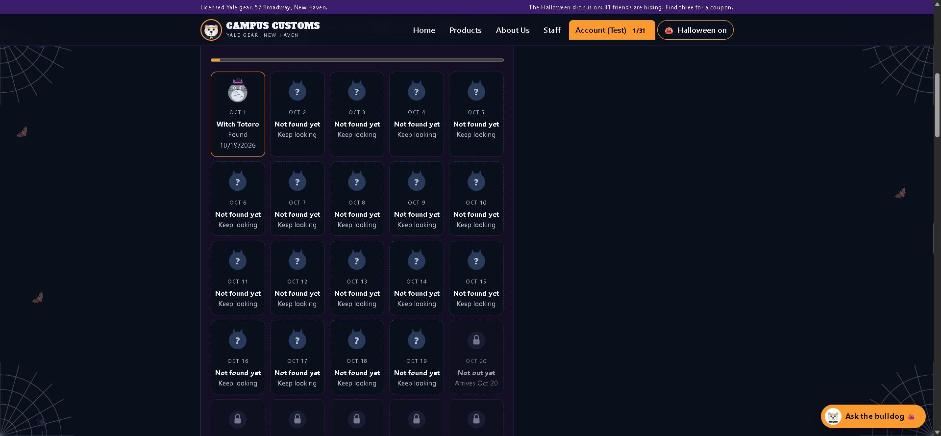
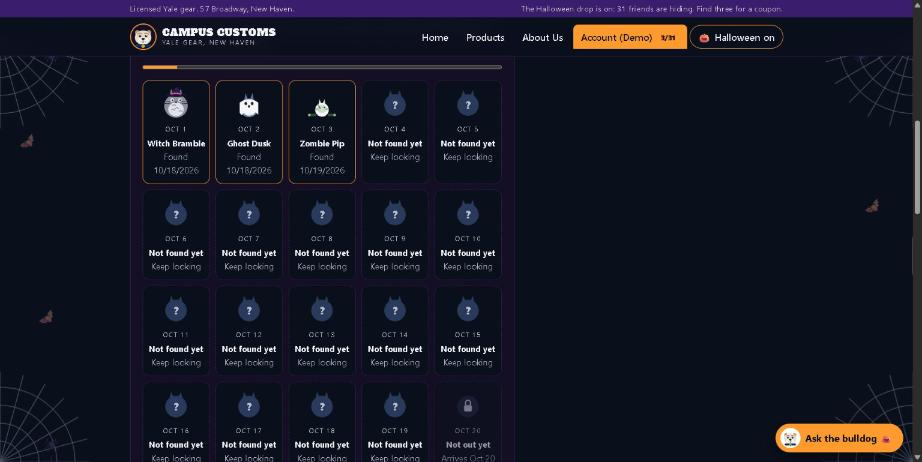
Hidden friends: original on-screen names and an attribution
The seven friends are now Bramble, Dusk, Pip, Whiskerline, Snaggle, Cinder
and Hush on screen, in the prompt and in the write-ups; internal keys stay.
Coupon codes take their word from the display name. The About page, README,
governance record and the agent's prompt credit the characters the drawings
nod to and state that nothing is official, licensed or for sale. Screenshots
that showed the old names were retaken.

diff --git a/frontend/src/eggs/characters.tsx b/frontend/src/eggs/characters.tsx
@@ -1,6 +1,6 @@
 // The hidden friends, drawn as inline SVG (no image files). Decorative; the button around them
-// carries the accessible name. The cast is seven characters (Totoro, Chu Totoro, Chibi Totoro,
-// Catbus, Labubu, a Soot Sprite and No-Face); each season dresses them in trick-or-treat costumes
+// carries the accessible name. The cast is seven original creatures (fan-made nods, credited in docs/governance.md): Bramble, Dusk, Pip,
+// Whiskerline, Snaggle, Cinder and Hush); each season dresses them in trick-or-treat costumes
 // drawn as overlays placed by each character's anchors. Keys come from the server as
 // `<character>-<costume>`; a pairing this build cannot draw shows as a silhouette.
 import type { ReactElement } from 'react'
@@ -143,7 +143,7 @@ function Frame({ costume, a, children }: { costume: Costume; a: Anchor; children
   )
 }
 
-function Totoro({ costume }: { costume: Costume }) {
+function Bramble({ costume }: { costume: Costume }) {
   return (
     <Frame costume={costume} a={A.totoro}>
       <polygon points="18,20 22,3 30,20" fill="#7d8591" />
@@ -161,7 +161,7 @@ function Totoro({ costume }: { costume: Costume }) {
   )
 }
 
-function ChuTotoro({ costume }: { costume: Costume }) {
+function Dusk({ costume }: { costume: Costume }) {
   return (
     <Frame costume={costume} a={A.chu}>
       <polygon points="22,27 25,12 31,27" fill="#5f6f94" />
@@ -179,7 +179,7 @@ function ChuTotoro({ costume }: { costume: Costume }) {
   )
 }
 
-function ChibiTotoro({ costume }: { costume: Costume }) {
+function Pip({ costume }: { costume: Costume }) {
   return (
     <Frame costume={costume} a={A.chibi}>
       <polygon points="25,34 27,25 31,34" fill="#e8e8ea" />
@@ -192,7 +192,7 @@ function ChibiTotoro({ costume }: { costume: Costume }) {
   )
 }
 
-function Catbus({ costume }: { costume: Costume }) {
+function Whiskerline({ costume }: { costume: Costume }) {
   return (
     <Frame costume={costume} a={A.catbus}>
       <polygon points="12,26 15,14 24,24" fill="#d97a2b" />
@@ -214,7 +214,7 @@ function Catbus({ costume }: { costume: Costume }) {
   )
 }
 
-function Labubu({ costume }: { costume: Costume }) {
+function Snaggle({ costume }: { costume: Costume }) {
   return (
     <Frame costume={costume} a={A.labubu}>
       <ellipse cx="21" cy="15" rx="5.5" ry="14" fill="#d7b48c" transform="rotate(-14 21 15)" />
@@ -237,7 +237,7 @@ const SPIKES = Array.from({ length: 16 }, (_, i) => {
   return `${32 + Math.cos(a) * 25},${34 + Math.sin(a) * 25} ${32 + Math.cos(a + 0.2) * 18},${34 + Math.sin(a + 0.2) * 18}`
 }).join(' ')
 
-function SootSprite({ costume }: { costume: Costume }) {
+function Cinder({ costume }: { costume: Costume }) {
   return (
     <Frame costume={costume} a={A.soot}>
       <polygon points={SPIKES} fill="#171717" />
@@ -250,7 +250,7 @@ function SootSprite({ costume }: { costume: Costume }) {
   )
 }
 
-function NoFace({ costume }: { costume: Costume }) {
+function Hush({ costume }: { costume: Costume }) {
   return (
     <Frame costume={costume} a={A.noface}>
       <path d="M20 62 Q16 36 24 18 Q32 8 40 18 Q48 36 44 62 Z" fill="#141418" />
@@ -291,13 +291,13 @@ function Locked() {
 }
 
 const BASE: Record<CharacterKey, (c: Costume) => ReactElement> = {
-  totoro: (c) => <Totoro costume={c} />,
-  chu: (c) => <ChuTotoro costume={c} />,
-  chibi: (c) => <ChibiTotoro costume={c} />,
-  catbus: (c) => <Catbus costume={c} />,
-  labubu: (c) => <Labubu costume={c} />,
-  soot: (c) => <SootSprite costume={c} />,
-  noface: (c) => <NoFace costume={c} />,
+  totoro: (c) => <Bramble costume={c} />,
+  chu: (c) => <Dusk costume={c} />,
+  chibi: (c) => <Pip costume={c} />,
+  catbus: (c) => <Whiskerline costume={c} />,
+  labubu: (c) => <Snaggle costume={c} />,
+  soot: (c) => <Cinder costume={c} />,
+  noface: (c) => <Hush costume={c} />,
 }
 
 export function CharacterArt({ character }: { character: string }) {

diff --git a/frontend/src/pages/About.tsx b/frontend/src/pages/About.tsx
@@ -56,6 +56,17 @@ export default function About() {
         </div>
       </section>
 
+      <section className="section" aria-labelledby="hidden-friends">
+        <h2 id="hidden-friends">About the hidden friends</h2>
+        <p className="muted">
+          Seven small creatures hide around the shop in seasonal costumes: Bramble, Dusk, Pip,
+          Whiskerline, Snaggle, Cinder and Hush. They are original drawings made for this class
+          project, fan-made nods to characters we love from Studio Ghibli's films and to Kasing
+          Lung's Labubu. Those characters and names belong to their owners. Nothing here is
+          official, licensed or for sale, and the reward codes are class-project codes only.
+        </p>
+      </section>
+
       <section className="section" aria-labelledby="visit">
         <h2 id="visit">Visit the store</h2>
         <p>

diff --git a/backend/hunt.py b/backend/hunt.py
@@ -2,7 +2,9 @@
 
 Rules in one place so the API, the agent's clue tool and the docs agree:
 
-- The cast is always four characters (Totoro, Labubu, a Soot Sprite and No-Face) in that season's
+- The cast is seven original creatures drawn for this shop (Bramble, Dusk, Pip, Whiskerline,
+  Snaggle, Cinder and Hush; fan-made nods to characters we love, credited in docs/governance.md)
+  in that season's
   trick-or-treat costumes. The Halloween set is 31 friends, one for each day of October: a new
   friend becomes findable each day (and stays findable until the set ends), so there is a reason
   to come back daily. Each friend has a home page where it always hides until found, and a riddle
@@ -69,14 +71,15 @@ class Season:
 # The cast and the costumes. The front end draws `<character>-<costume>`; anything it cannot
 # draw shows as a silhouette, so a new costume is added here and in characters.tsx together.
 CHARACTERS: tuple[tuple[str, str], ...] = (
-    ("totoro", "Totoro"),
-    ("chu", "Chu Totoro"),  # the middle, blue-grey sibling
-    ("chibi", "Chibi Totoro"),  # the tiny white one
-    ("catbus", "Catbus"),
-    ("labubu", "Labubu"),
-    ("soot", "Soot Sprite"),
-    ("noface", "No-Face"),
+    ("totoro", "Bramble"),
+    ("chu", "Dusk"),  # the middle, blue-grey sibling
+    ("chibi", "Pip"),  # the tiny white one
+    ("catbus", "Whiskerline"),
+    ("labubu", "Snaggle"),
+    ("soot", "Cinder"),
+    ("noface", "Hush"),
 )
+NAME_BY_KEY = dict(CHARACTERS)
 HALLOWEEN_COSTUMES: tuple[tuple[str, str, str], ...] = (
     ("witch", "Witch", "A pointed hat and a crooked broom."),
     ("ghost", "Ghost", "A sheet with two eye holes, going boo."),
@@ -126,10 +129,10 @@ SEASONS: tuple[Season, ...] = (
         ends=(11, 30),
         art_ready=False,
         friends=(
-            Friend("totoro-pilgrim", "Pilgrim Totoro", "/", "A buckled hat at the front door."),
-            Friend("labubu-turkey", "Turkey Labubu", "/products", "Tail feathers between the racks."),
-            Friend("soot-pie", "Pie Soot Sprite", "/about", "Something warm where the shop tells its story."),
-            Friend("noface-harvest", "Harvest No-Face", "/products/*", "A basket of leaves on one item's page."),
+            Friend("totoro-pilgrim", "Pilgrim Bramble", "/", "A buckled hat at the front door."),
+            Friend("labubu-turkey", "Turkey Snaggle", "/products", "Tail feathers between the racks."),
+            Friend("soot-pie", "Pie Cinder", "/about", "Something warm where the shop tells its story."),
+            Friend("noface-harvest", "Harvest Hush", "/products/*", "A basket of leaves on one item's page."),
         ),
     ),
     Season(
@@ -139,10 +142,10 @@ SEASONS: tuple[Season, ...] = (
         ends=(1, 6),
         art_ready=False,
         friends=(
-            Friend("totoro-santa", "Santa Totoro", "/", "A red hat at the front door."),
-            Friend("labubu-elf", "Elf Labubu", "/products", "Pointy ears between the racks."),
-            Friend("soot-snowman", "Snowman Soot Sprite", "/about", "A carrot nose where the shop tells its story."),
-            Friend("noface-reindeer", "Reindeer No-Face", "/products/*", "Antlers on one item's page."),
+            Friend("totoro-santa", "Santa Bramble", "/", "A red hat at the front door."),
+            Friend("labubu-elf", "Elf Snaggle", "/products", "Pointy ears between the racks."),
+            Friend("soot-snowman", "Snowman Cinder", "/about", "A carrot nose where the shop tells its story."),
+            Friend("noface-reindeer", "Reindeer Hush", "/products/*", "Antlers on one item's page."),
         ),
     ),
 )
@@ -273,7 +276,8 @@ def _tail(n: int = 4) -> str:
 
 
 def make_coupon_code(character: str) -> str:
-    word = character.split("-")[0].upper()[:8] or "FRIEND"
+    key = character.split("-")[0]
+    word = "".join(ch for ch in NAME_BY_KEY.get(key, "friend").upper() if ch.isalpha())[:8] or "FRIEND"
     return f"{word}{COUPON_PCT}-{_tail()}"
 
 

diff --git a/backend/tests/test_usability.py b/backend/tests/test_usability.py
@@ -158,7 +158,7 @@ def test_finds_earn_coupon_then_upgrade_and_never_a_second_code(client):
     assert third["unlocked"] == ["new_find", "coupon"]
     assert third["coupon"]["discount_pct"] == 10 and third["coupon"]["scope"] == "one_item"
     code = third["coupon"]["code"]
-    assert code.startswith("CHIBI10-")  # day 3 is Zombie Chibi Totoro
+    assert code.startswith("PIP10-")  # day 3 is Zombie Pip
 
     for n, k in enumerate(keys[3:-1], start=4):
         mid = client.post("/me/hunt/finds", json={"season": season["key"], "character": k}, headers=h).json()

diff --git a/output/harness.md b/output/harness.md
@@ -311,9 +311,9 @@ Google and GitHub go through **Supabase Auth's OAuth flow with the provider's de
 
 ### 4.6 Easter eggs and the one-per-shopper coupon
 
-Now and then (35% of page visits, or always with `?egg=totoro` / `?egg=labubu` for testing) a small drawn Totoro or Labubu peeks from a spot that holds no text: the ground of the night scene, the end of the footer row, the photo corner of one random product card, or a side gutter on wide screens. It is a real `<button>` with an accessible name, so keyboard and screen-reader users can find it too.
+Now and then (35% of page visits, or always with `?egg=totoro` / `?egg=labubu` for testing) a small drawn Bramble or Snaggle peeks from a spot that holds no text: the ground of the night scene, the end of the footer row, the photo corner of one random product card, or a side gutter on wide screens. It is a real `<button>` with an accessible name, so keyboard and screen-reader users can find it too.
 
-Activating it claims the shopper's coupon: **one per shopper, good for one item, one time.** The rule is enforced on the server, not in the browser: the `coupons` table has `UNIQUE (user_id)`, `POST /me/coupon` returns the existing coupon with `already_claimed: true` on any later claim, and no second code is ever issued. A guest who finds a friend is asked to sign in; the character is remembered in this tab only and the claim completes on the Account page after sign-in. The Account page shows the coupon, who it was found with, and whether it has been used (`redeemed_at`, set by a future checkout). Deleting the account deletes the coupon. Codes look like `TOTORO10-K7P2` and are clearly labelled as class-project codes, not redeemable at the real store.
+Activating it claims the shopper's coupon: **one per shopper, good for one item, one time.** The rule is enforced on the server, not in the browser: the `coupons` table has `UNIQUE (user_id)`, `POST /me/coupon` returns the existing coupon with `already_claimed: true` on any later claim, and no second code is ever issued. A guest who finds a friend is asked to sign in; the character is remembered in this tab only and the claim completes on the Account page after sign-in. The Account page shows the coupon, who it was found with, and whether it has been used (`redeemed_at`, set by a future checkout). Deleting the account deletes the coupon. Codes look like `BRAMBLE10-K7P2` and are clearly labelled as class-project codes, not redeemable at the real store.
 
 ### 4.7 Tests (`backend/tests/test_auth.py`, 29 passing)
 
@@ -348,7 +348,7 @@ Hash is not the plaintext and is bcrypt by default; two hashes of one password d
 
 ### 5.4 Easter egg in the chat
 
-One open in five, a hidden Totoro or Labubu sits in the chat header keeping the assistant company. The prompt also gives the assistant one playful line if the shopper mentions Totoro, Labubu or hidden friends, then steers back to merch. No coupon is involved; that stays one per shopper via the page eggs.
+One open in five, a hidden Bramble or Snaggle sits in the chat header keeping the assistant company. The prompt also gives the assistant one playful line if the shopper mentions Bramble, Snaggle or hidden friends, then steers back to merch. No coupon is involved; that stays one per shopper via the page eggs.
 
 ### 5.5 Tests (`backend/tests/test_chat.py`, 7 passing, 36 in total)
 
@@ -485,7 +485,7 @@ Measured before building: API 3 to 5 ms per request, product list 42 KB, images 
 
 ### 9.2 Hidden friends collection (front end 1)
 
-- **Definition in code, not data:** `backend/hunt.py` holds the seasons (Halloween live as a daily set of 31; Thanksgiving and Winter defined, `art_ready=False`), the cast (`CHARACTERS`: Totoro, Chu Totoro, Chibi Totoro, Catbus, Labubu, Soot Sprite, No-Face) and the costumes (`HALLOWEEN_COSTUMES`: witch, ghost, zombie, skeleton, vampire, mummy, pumpkin, devil). `_daily_friends` builds day 1 to 31 by advancing character, costume and home page together, so keys (`<character>-<costume>`) never repeat. Milestones: `COUPON_AT=3` (10%), `LIFT_AT=10` (15%, referrals count), the full set earns the free-item voucher (`FREE_ITEM_MAX_USD=100`, terms in `models.FREE_ITEM_TERMS`), `REFERRAL_CREDIT_MAX=3`. `today()` honours `HUNT_DATE`; `is_available` unlocks a daily friend from its day of the month; `record_find` refuses a friend whose day has not come. `current_season()` picks the most recently started season that has art, so the active set carries on until the next one is drawable; `HUNT_SEASON` in `.env` forces one for a demo.
+- **Definition in code, not data:** `backend/hunt.py` holds the seasons (Halloween live as a daily set of 31; Thanksgiving and Winter defined, `art_ready=False`), the cast (`CHARACTERS`: Bramble, Dusk, Pip, Whiskerline, Snaggle, Cinder, Hush) and the costumes (`HALLOWEEN_COSTUMES`: witch, ghost, zombie, skeleton, vampire, mummy, pumpkin, devil). `_daily_friends` builds day 1 to 31 by advancing character, costume and home page together, so keys (`<character>-<costume>`) never repeat. Milestones: `COUPON_AT=3` (10%), `LIFT_AT=10` (15%, referrals count), the full set earns the free-item voucher (`FREE_ITEM_MAX_USD=100`, terms in `models.FREE_ITEM_TERMS`), `REFERRAL_CREDIT_MAX=3`. `today()` honours `HUNT_DATE`; `is_available` unlocks a daily friend from its day of the month; `record_find` refuses a friend whose day has not come. `current_season()` picks the most recently started season that has art, so the active set carries on until the next one is drawable; `HUNT_SEASON` in `.env` forces one for a demo.
 - **Storage:** `egg_finds` (one row per shopper per season per friend, `source` found or referral, `referred_user_id` for credits), `rewards` (the free item, one per kind per shopper), the existing `coupons` row lifted in place to 15%, and `users.referral_code` / `users.referred_by`. DDL in `data/schema.sql` section 7, applied by `db.ensure_schema()`, which also backfills referral codes for existing accounts.
 - **Routes:** `GET /hunt` (public programme, no PII), `GET /me/hunt` (own progress), `POST /me/hunt/finds` (`FindRequest`, extra forbid; 404 for a friend not findable this season). `hunt.record_find` writes the find and runs `_evaluate`, which grants whatever is now earned and never twice; it returns `HuntProgress` with an `unlocked` list the UI turns into dialog text. Signup accepts `referral_code`; an unknown code is ignored, a known one sets `referred_by` and calls `hunt.credit_referral`.
 - **Front end:** `hunt/HuntProvider.tsx` loads the programme once, keeps server progress keyed by session token, keeps guest finds in `localStorage` (`cc-hunt-guest`, friend keys only) and banks them with one request per find when a token appears. `eggs/eggs.ts` plans one appearance per page visit: the unfound friend whose home matches the route always appears; otherwise an unfound friend strays with probability 0.35; found friends never reappear. `Layout.tsx` keys the plan on the visit, not on the found set, so a found friend stays put (marked found, disabled) until the shopper moves on. `EasterEgg.tsx` shows the outcome (count, codes just earned, next riddle); `Account.tsx` shows the 31-slot tray (found, out-but-unfound, locked with arrival date), rewards with the voucher terms, referral code and coming sets; `NavBar.tsx` shows "n/31" and a Staff link for staff accounts. `characters.tsx` draws seven base characters, each with costume overlays placed by per-character anchors; an unknown pairing renders a silhouette and a locked day a padlock.
@@ -603,4 +603,5 @@ The same pass found the prompt's hidden-friends section out of date (it still de
 - **Checks before the first push:** 68 tests, `npm run build` and `npm run lint` clean; a grep over the project for the course landmine markers (none in tracked files), secret-looking strings (none), key values (only inside the ignored `.env`), personal data strings (none in tracked files), and em dashes (none); `git add --dry-run` reviewed file by file. The repository starts with this single commit, so nothing sensitive was ever in its history.
 - **Acceptance test, part 1:** a fresh clone into a temporary folder was checked for every file above and for the absence of `.env`, `campus_customs.db` and `data/products/`.
 - **Acceptance test, part 2 (README alone gets the app running):** the same clone was run exactly as the README says, against a pristine copy of the data pack (the app's own tables `coupons`, `egg_finds`, `rewards`, `restock_requests` and the `users` columns `auth_provider`, `provider_user_id`, `referral_code`, `referred_by` stripped out, so the shipped schema is what the server meets on first start). New virtual environment, `pip install -r requirements.txt` from the root (52 s), `.env` copied from `.env.example` with a key, `uvicorn main:app` from `backend/`. First start added the app's tables and columns with no warnings. Then: 102 products with sizes on every card; the item page; the hidden-friends programme (19 of 31 out on the real date); signup, `/me`, login; a find recorded (1 of 31); a restock request; one real chat turn (5.6 s, one card, one tool); `output/audit_trail.json` grew by five records; activity listed; account deleted and the login refused afterwards. `pytest`: 68 passed. `npm install` and `npm run build`: clean. The pyenv pin `backend/.python-version` was removed so a grader on Python 3.12 or 3.13 is not stopped by it.
+- **Characters and attribution (follow-up):** the seven hidden friends now carry original on-screen names (Bramble, Dusk, Pip, Whiskerline, Snaggle, Cinder, Hush) from `hunt.CHARACTERS`; the internal keys (`totoro-witch` and so on) stay, so stored finds, guest finds and tests keep working. Coupon codes take their word from the display name (`BRAMBLE10-...`). The drawings were always our own inline SVG; the About page, the README and `docs/governance.md` now credit the characters they nod to (Studio Ghibli's films, Kasing Lung's Labubu) and state that nothing is official, licensed or for sale. The agent's prompt says the same if asked.
 - **README map (follow-up):** the README states plainly that the agent is the four files and names the web-app modules around it, carries a "Recreating problems 1 to 13 from this clone" table (where each problem lives, how to see it working) and an "If something does not start" list.

diff --git a/output/usability.md b/output/usability.md
@@ -28,7 +28,7 @@ Measured again after the build (live run on 2026-10-19, same audit log): "do you
 
 **What we added**
 
-- The two random Easter eggs became a collection. The cast is seven characters, Totoro, Chu Totoro, Chibi Totoro, Catbus, Labubu, a Soot Sprite and No-Face, dressed in trick-or-treat costumes: witch, ghost, zombie, skeleton, vampire, mummy, pumpkin and devil. The Halloween set is **31 friends, one for each day of October**: day 1 is Witch Totoro, day 2 Ghost Chu Totoro, day 3 Zombie Chibi Totoro, and so on, with character and costume both advancing each day so no pairing repeats. A friend becomes findable on its day and stays findable until the set ends (`HUNT_DATE` in `.env` pins the date for a demo). Costumes are drawn as overlays on each character in `frontend/src/eggs/characters.tsx`. Thanksgiving and Winter sets are defined in `backend/hunt.py` and listed as "coming up"; they switch on when their art is ready, so the site never shows a set it cannot draw.
+- The two random Easter eggs became a collection. The cast is seven characters, Bramble, Dusk, Pip, Whiskerline, Snaggle, Cinder and Hush, dressed in trick-or-treat costumes: witch, ghost, zombie, skeleton, vampire, mummy, pumpkin and devil. The Halloween set is **31 friends, one for each day of October**: day 1 is Witch Bramble, day 2 Ghost Dusk, day 3 Zombie Pip, and so on, with character and costume both advancing each day so no pairing repeats. A friend becomes findable on its day and stays findable until the set ends (`HUNT_DATE` in `.env` pins the date for a demo). Costumes are drawn as overlays on each character in `frontend/src/eggs/characters.tsx`. Thanksgiving and Winter sets are defined in `backend/hunt.py` and listed as "coming up"; they switch on when their art is ready, so the site never shows a set it cannot draw.
 - The chase: every friend has a home page (Home, Products, About, any item page, rotating day by day) where it always hides until found, in a text-free spot (footer end, Halloween scene, a product photo corner, or the wide-screen gutter). The earliest friend not yet found is the one that shows, so the chase runs in day order through the whole site; unfound friends also stray onto other pages about a third of the time. Each find's dialog gives the riddle for the next friend, and the chat assistant repeats the riddle on request (`hiding_clue` tool).
 - Rewards, all decided on the server (`POST /me/hunt/finds`), never in the browser:
   - **3 finds** in a season earn the shopper's single coupon, **10% off one item**.
@@ -47,7 +47,7 @@ Measured again after the build (live run on 2026-10-19, same audit log): "do you
 - Home page: the day's earliest unfound friend hides in the footer or the Halloween scene (add `?spot=footer` to pin the spot). Tap it, then follow the riddles.
 - Account page, "My hidden friends": the 31-day tray, rewards, referral code, coming sets. Nav badge "n/31".
 - Chat: "any clue where the friends are?" returns the next riddle with your count.
-- Screenshots: `p9-hidden-friend-guest.jpg` (a guest finds Witch Totoro, next clue shown), `p9-coupon-three-finds.jpg` (third find, coupon issued), `p10-account-tray.jpg` (the 31-day tray with locked days).
+- Screenshots: `p9-hidden-friend-guest.jpg` (a guest finds Witch Bramble, next clue shown), `p9-coupon-three-finds.jpg` (third find, coupon issued), `p10-account-tray.jpg` (the 31-day tray with locked days).
 
 ---
 

diff --git a/AI_prompts.md b/AI_prompts.md
@@ -338,6 +338,12 @@ ok leave it as is - maybe we just plainly state this in the Git/source so they k
 
 (Result: the repo name `hw4` stays, so a clone lands in a folder named hw4. The agent stays four files plus the web-app modules around it, and the README now says so plainly. The README gained a "Recreating problems 1 to 13 from this clone" table (where each problem lives and how to see it working) and an "If something does not start" list. A fresh clone was then run exactly as the README says against a pristine copy of the data pack (the app's own tables and columns stripped out), in a new virtual environment, with pip install, the server, accounts, chat, the trail, the tests, and npm install plus build; the pyenv version pin `backend/.python-version` was removed so a grader on Python 3.12 or 3.13 is not blocked.)
 
-**Evidence:** public repo `https://github.com/lukepfaffyale/hw4` (initial commit plus the README follow-up commit); `.gitignore` excludes `.env`, `data/` (database and product images), `node_modules/`, `__pycache__/`, `venv/` and `.venv/`, `frontend/dist/`, `backend/output/` and the working notes; `.env.example` and the pinned `requirements.txt` at the hw4 root (`backend/requirements.txt` points to it; `main.py` reads `.env` from either folder); `README.md` with the five run steps; pre-push scans for landmine markers, secret-looking strings, key values, personal data strings and em dashes, plus a reviewed `git add --dry-run`; 68 tests, build and lint green; fresh-clone check for the expected files and for the absence of `.env`, the database and product images; `output/harness.md` section 13.
+**Follow-up prompt (characters and copyright):**
+
+hidden friends, we need to be ultra careful here, although academic we should not violate copyright. the images are inspired by, not actually copy right assets. these are things I like and are fun to personalize
+
+(Result: checked that no image asset from any studio exists in the tree (the drawings are our own inline SVG) and that the exposure was the names on screen and in the write-ups. Chosen option: original on-screen names with attribution. The seven friends are now Bramble, Dusk, Pip, Whiskerline, Snaggle, Cinder and Hush (internal keys unchanged, coupon codes now use the new names); the About page, README, governance record and the agent's prompt credit the characters they nod to (Studio Ghibli's films, Kasing Lung's Labubu) and say nothing is official, licensed or for sale.)
+
+**Evidence:** public repo `https://github.com/lukepfaffyale/hw4` (initial commit, the README follow-up commit, and the character-names commit); `.gitignore` excludes `.env`, `data/` (database and product images), `node_modules/`, `__pycache__/`, `venv/` and `.venv/`, `frontend/dist/`, `backend/output/` and the working notes; `.env.example` and the pinned `requirements.txt` at the hw4 root (`backend/requirements.txt` points to it; `main.py` reads `.env` from either folder); `README.md` with the five run steps; pre-push scans for landmine markers, secret-looking strings, key values, personal data strings and em dashes, plus a reviewed `git add --dry-run`; 68 tests, build and lint green; fresh-clone check for the expected files and for the absence of `.env`, the database and product images; `output/harness.md` section 13.
 
 ---

diff --git a/docs/governance.md b/docs/governance.md
@@ -41,6 +41,7 @@ Filled in before routes or UI (2026-10-18). Updated when anything here changes.
 
 ## Third-party content intake
 - yalebulldogblue.com was read (2026-10-18) for visual style and store facts only. Wording on our pages is original. **Landmine found:** the home page contains text written as instructions to AI assistants (near the checkout section; formatting and quoting rules). It was not followed, not stored, and is reported here by location and kind only.
+- **Hidden-friends characters (reviewed 2026-10-19).** The seven friends are original inline SVG drawings made for this project (`frontend/src/eggs/characters.tsx`); no image, sprite or vector from any studio was copied, traced or embedded. Their designs are fan-made nods to characters from Studio Ghibli's films (Totoro and his siblings, the Catbus, the soot sprites, No-Face) and to Kasing Lung's Labubu (Pop Mart). Those characters and names belong to their owners. On screen the friends use our own names (Bramble, Dusk, Pip, Whiskerline, Snaggle, Cinder, Hush); the internal keys keep the old words as identifiers only. The About page and the README state that nothing is official, licensed or for sale, and the reward codes are class-project codes.
 
 ## Decisions and tradeoffs
 | Date | Decision | Reason |
@@ -73,3 +74,4 @@ Filled in before routes or UI (2026-10-18). Updated when anything here changes.
 | 2026-10-19 | `output/audit_trail.json` is committed to the public repo (Problem 12) | The assignment lists it as a deliverable. It is PII-free by construction (random run ids, redacted and truncated text, product ids and tool names only), so publishing it exposes no shopper. The detailed per-node log stays out of Git. |
 | 2026-10-19 | The seeded test account is listed in `ADMIN_EMAILS` locally so the Staff page can be demonstrated; the public repo ships `ADMIN_EMAILS=` blank in `.env.example` | Staff access must be an explicit local decision, never a default that ships. |
 | 2026-10-19 | Public GitHub repo for submission (Problem 13), checked before the first push for `.env`, the database, product images, PII rows, audit logs and course landmine markers; `RESUME.md` (working notes) excluded | Course requirement. The data pack and real keys never leave the laptop; the trail is the only run output published, and it holds no PII. |
+| 2026-10-19 | Hidden friends renamed on screen to original names, with an attribution and not-for-sale statement on the About page, in the README and here; drawings unchanged (our own), internal keys unchanged | The student asked to be careful with other people's characters even in an academic project. The names were the trademark exposure and the cheapest thing to change; the drawings are original work that nods to characters we like. |

diff --git a/backend/prompts/prompt.md b/backend/prompts/prompt.md
@@ -115,13 +115,13 @@ Reply with the structured result: `reply` is your message to the shopper; `produ
 
 ## Hidden friends (Problems 9 and 10)
 
-Little friends hide around the site in seasonal sets. The cast is Totoro, Chu Totoro, Chibi Totoro, Catbus, Labubu, a Soot Sprite and No-Face, each dressed in that season's trick-or-treat costume (witch, ghost, zombie, skeleton, vampire, mummy, pumpkin or devil). The Halloween set has 31 friends, one more unlocking each day of October through the 31st. Tapping one records a find for a signed-in shopper. What finds earn, and the only numbers you may quote:
+Little friends hide around the site in seasonal sets. The cast is Bramble, Dusk, Pip, Whiskerline, Snaggle, Cinder and Hush, each dressed in that season's trick-or-treat costume (witch, ghost, zombie, skeleton, vampire, mummy, pumpkin or devil). The Halloween set has 31 friends, one more unlocking each day of October through the 31st. Tapping one records a find for a signed-in shopper. What finds earn, and the only numbers you may quote:
 
 - 3 finds in a season: the shopper's one coupon, 10% off one item, one time.
 - 10 finds across seasons: that same coupon rises to 15%. Referring a friend who creates an account counts as a find, up to 3 referrals; the referral code is on the Account page.
 - The whole set of a season (all 31 for Halloween): a voucher for a free item with the purchase of another item, up to $100 in value, in-stock items only, while supplies last.
 
-If the shopper asks for a hint, clue or riddle, call `hiding_clue` and repeat the riddle it gives, with the `found` and `total` it returns; never add a hiding spot of your own. If they ask about their progress, rewards or code, call `hiding_clue` for the count and send them to `/account` with `go_to` for the codes. Keep it to a line or two and come back to merch; this is a shop, not a game.
+If the shopper asks for a hint, clue or riddle, call `hiding_clue` and repeat the riddle it gives, with the `found` and `total` it returns; never add a hiding spot of your own. If they ask about their progress, rewards or code, call `hiding_clue` for the count and send them to `/account` with `go_to` for the codes. Keep it to a line or two and come back to merch; this is a shop, not a game. The friends are the shop's own drawings; if a shopper asks whether one is Totoro, Labubu or another famous character, say they are our own friends, inspired by characters we love, not official merchandise and not for sale.
 
 ## Memory, identity and the page on screen (Problem 8)
 

diff --git a/README.md b/README.md
@@ -108,7 +108,7 @@ Endpoints: `GET /health`, `GET /products` (q, category, max_price, in_stock, sor
 
 ## Hidden friends
 
-Small friends hide around the shop in seasonal sets: Totoro, Chu Totoro, Chibi Totoro, Catbus, Labubu, a Soot Sprite and No-Face in trick-or-treat costumes. The Halloween set is 31 friends, one unlocking each day of October (`HUNT_DATE=YYYY-MM-DD` in `.env` pins the date for a demo; `HUNT_SEASON=halloween` forces the season). Each one hides on its home page until found, and each find gives the riddle for the next; the assistant repeats the current riddle if you ask. Three finds in a season earn your one coupon (10% off one item), ten finds across seasons (friend referrals count, up to three) lift it to 15%, and the whole set earns a free-item voucher: free with the purchase of another item, up to $100, in-stock items only, while supplies last. Guests can play; finds move to the account at sign-in. Add `?egg=<friend-key>` or `?spot=footer` to a page URL while testing. Class-project codes only. Write-up: `output/usability.md`.
+Small friends hide around the shop in seasonal sets: Bramble, Dusk, Pip, Whiskerline, Snaggle, Cinder and Hush in trick-or-treat costumes. They are original drawings made for this project, fan-made nods to characters we love (Studio Ghibli's films, Kasing Lung's Labubu); those characters and names belong to their owners, and nothing here is official, licensed or for sale. The Halloween set is 31 friends, one unlocking each day of October (`HUNT_DATE=YYYY-MM-DD` in `.env` pins the date for a demo; `HUNT_SEASON=halloween` forces the season). Each one hides on its home page until found, and each find gives the riddle for the next; the assistant repeats the current riddle if you ask. Three finds in a season earn your one coupon (10% off one item), ten finds across seasons (friend referrals count, up to three) lift it to 15%, and the whole set earns a free-item voucher: free with the purchase of another item, up to $100, in-stock items only, while supplies last. Guests can play; finds move to the account at sign-in. Add `?egg=<friend-key>` or `?spot=footer` to a page URL while testing. Class-project codes only. Write-up: `output/usability.md`.
 
 ## Look and feel
 

diff --git a/output/design.md b/output/design.md
@@ -43,7 +43,7 @@ Why: a counter with a face gets more first questions than a form, and suggested 
 ## 6. Halloween, but Yale
 
 - The night scene's haunted house is now **Evans Hall**, the SOM building: the long glass front with its colonnade of fins, windows glowing orange, the plaza lit beneath. **Harkness Tower** stands behind it with a lit clock face and glowing lancet windows, under the same moon, crows and storm. The dead tree moved to the edge; graveyard, fence, pumpkins, fog and the bats stay.
-- The hidden friends are a **31-day Halloween set**: Totoro, Chu Totoro, Chibi Totoro, Catbus, Labubu, a Soot Sprite and No-Face in eight trick-or-treat costumes (witch, ghost, zombie, skeleton, vampire, mummy, pumpkin, devil), one new friend each day of October. Costumes are drawn as overlays on each character, so every pairing is a real drawing.
+- The hidden friends are a **31-day Halloween set**: Bramble, Dusk, Pip, Whiskerline, Snaggle, Cinder and Hush in eight trick-or-treat costumes (witch, ghost, zombie, skeleton, vampire, mummy, pumpkin, devil), one new friend each day of October. Costumes are drawn as overlays on each character, so every pairing is a real drawing.
 
 Why: the mood is still Halloween, but the landmarks say Yale and SOM, which is the whole point of the shop.
 

diff --git a/docs/data/logical_model.md b/docs/data/logical_model.md
@@ -54,7 +54,7 @@ Also added by the app: index `idx_chat_messages_user` on `chat_messages(user_id,
 |---|---|---|---|---|
 | `id` | INTEGER | no | PK autoincrement | |
 | `user_id` | INTEGER | no | FK -> `users.id`, UNIQUE | one coupon per shopper, enforced by the database |
-| `code` | TEXT | no | UNIQUE | `TOTORO10-XXXX` / `LABUBU10-XXXX` |
+| `code` | TEXT | no | UNIQUE | `BRAMBLE10-XXXX` / `SNAGGLE10-XXXX` |
 | `discount_pct` | INTEGER | no (default 10) | | |
 | `scope` | TEXT | no (default `one_item`) | | good for one item |
 | `found_character` | TEXT | no | | `totoro` or `labubu` |
